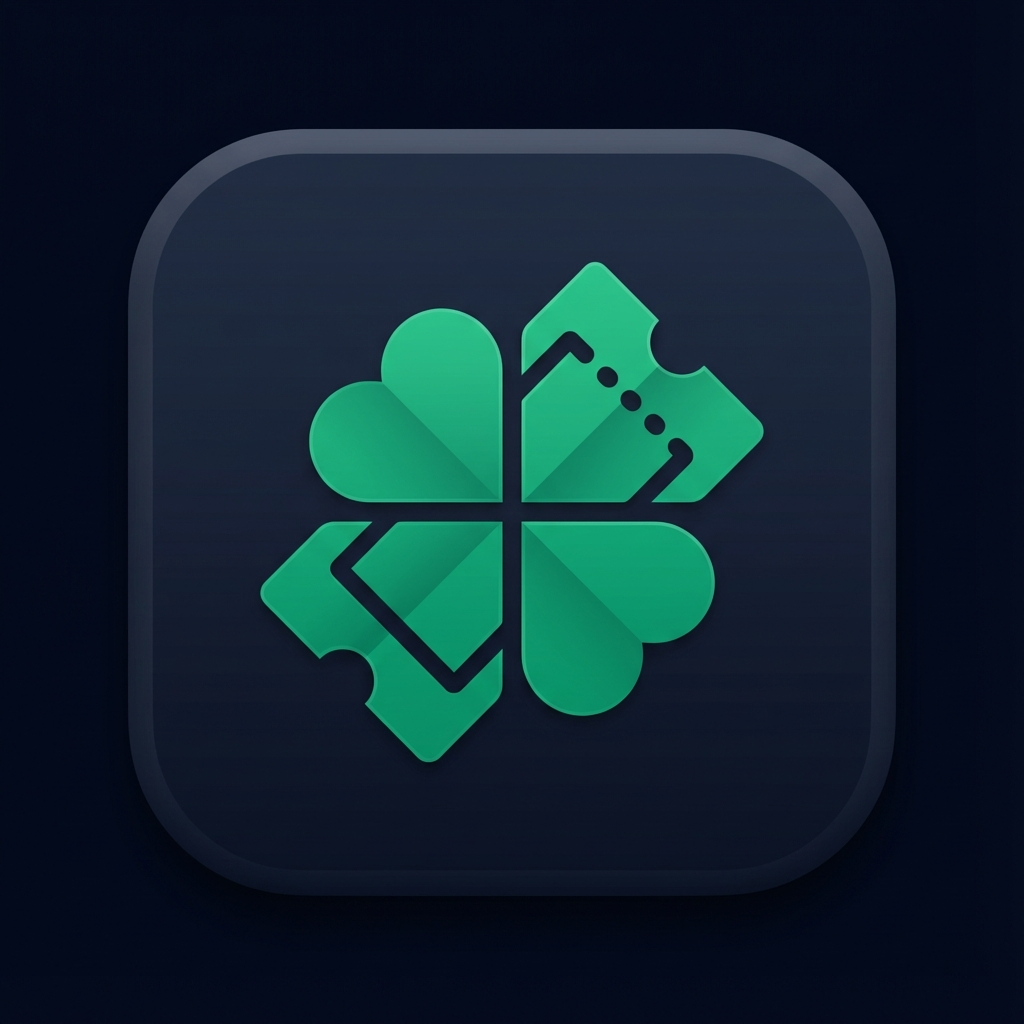
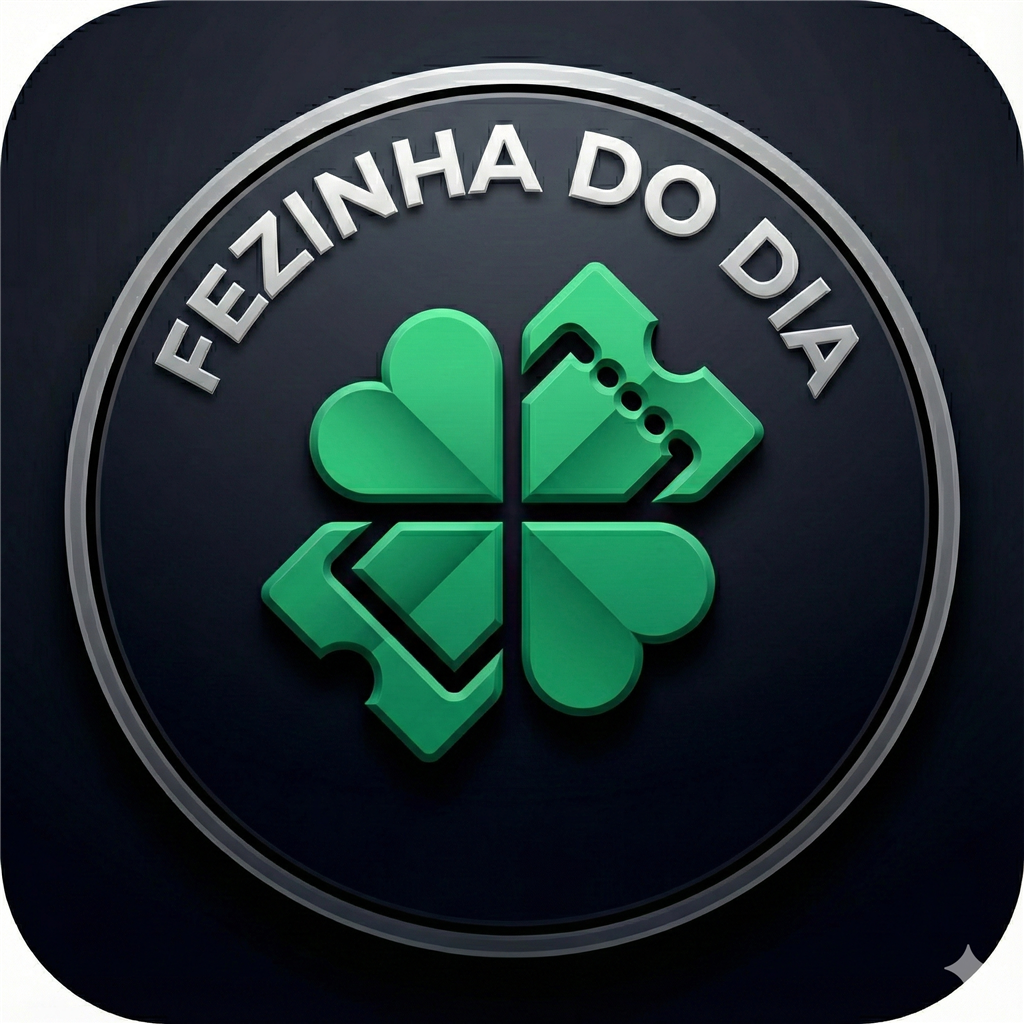
feat: updated login text and bumped internal version to 1.1.1

diff --git a/apps/mobile/app/index.tsx b/apps/mobile/app/index.tsx
@@ -109,7 +109,7 @@ export default function LoginScreen() {
                             <MaterialCommunityIcons name="clover" size={40} color="#50C878" />
                         </View>
                         <Text style={tw`text-3xl font-extrabold text-white tracking-tighter`}>
-                            SORTE <Text style={tw`text-primary`}>PREMIADA</Text>
+                            Fezinha <Text style={tw`text-primary`}>do Dia</Text>
                         </Text>
                         <Text style={tw`text-gray-400 text-sm tracking-widest uppercase mt-1`}>Cambista Edition</Text>
                     </View>

diff --git a/apps/mobile/services/updater.service.ts b/apps/mobile/services/updater.service.ts
@@ -2,7 +2,7 @@ import * as Application from 'expo-application';
 import * as Linking from 'expo-linking';
 import { Alert, Platform } from 'react-native';
 
-const UPDATE_URL = 'https://www.inforcomputer.com/Atualizacoes/SORTE_PREMIADA';
+const UPDATE_URL = 'https://www.inforcomputer.com/Atualizacoes/Fezinha_do_dia';
 const VERSION_FILE_URL = `${UPDATE_URL}/version.json`;
 
 export interface VersionInfo {

diff --git a/apps/mobile/constants/AppConfig.ts b/apps/mobile/constants/AppConfig.ts
@@ -1,5 +1,5 @@
 export const AppConfig = {
-    version: "1.0.0",
+    version: "1.1.1",
     name: "Fezinha do Dia",
     api: {
         // DEV: Use localhost and run 'adb reverse tcp:3333 tcp:3333'
